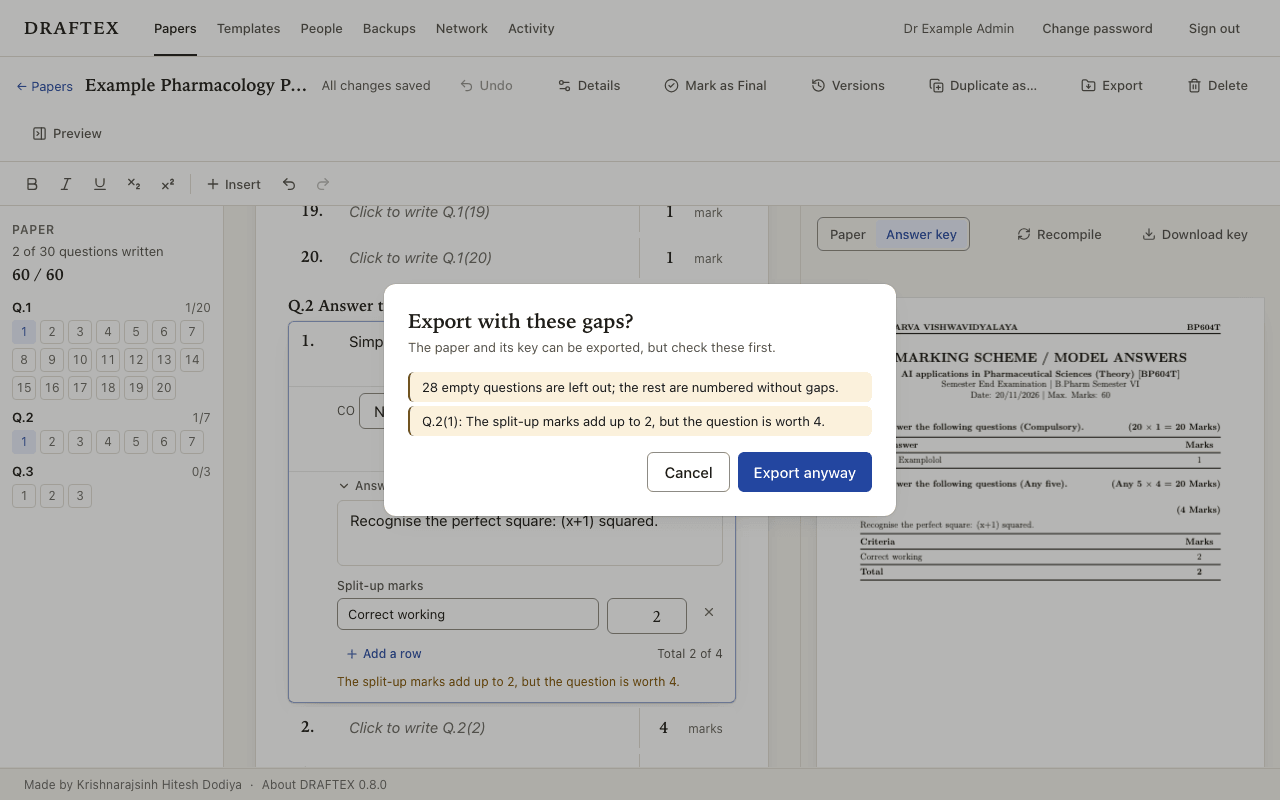
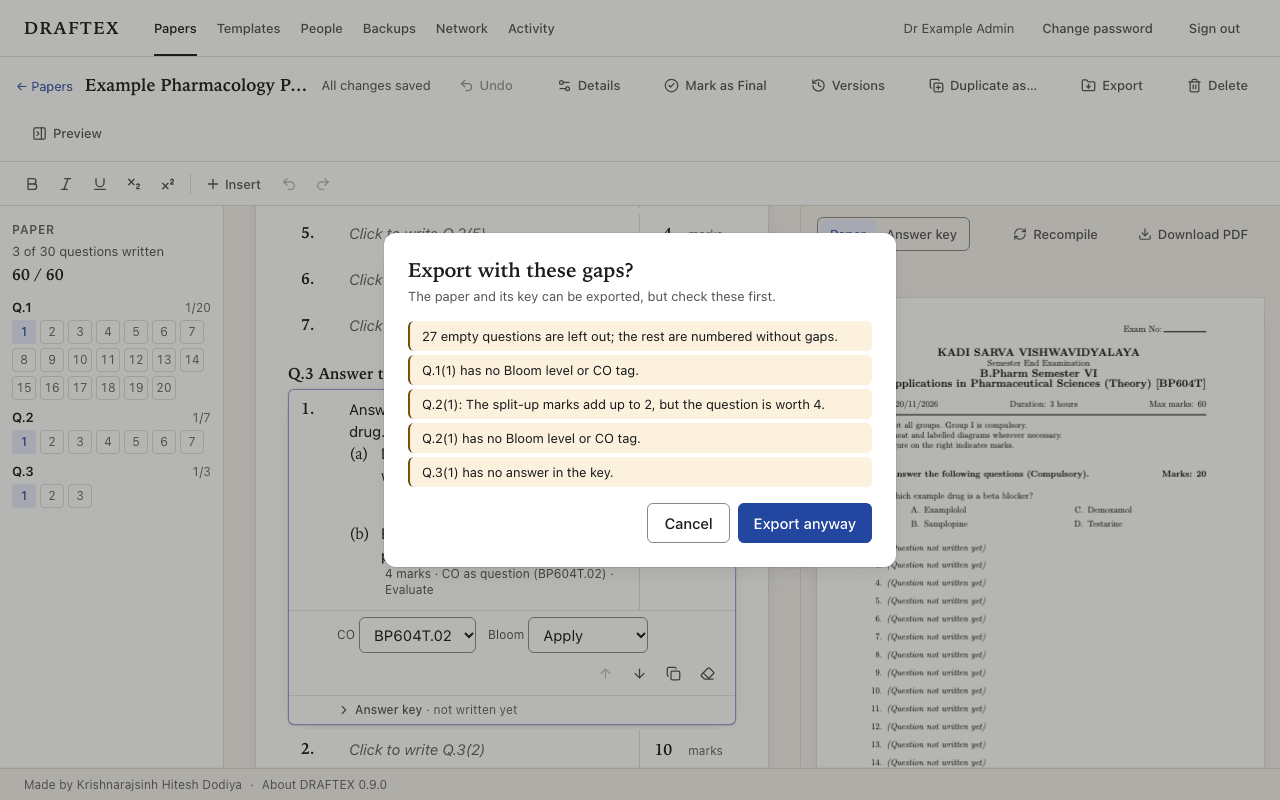
docs: explain Bloom levels, sub-part tags and elective CO tags
User guide sections 4 and 6 and a new screenshot (13-bloom). The other screenshots were taken again from invented data.

diff --git a/scripts/guide-screenshots.ts b/scripts/guide-screenshots.ts
@@ -128,6 +128,46 @@ await page.getByRole("button", { name: "Answer key", exact: true, pressed: false
 await page.getByRole("img", { name: /Answer key of .* page 1 of/ }).waitFor({ timeout: 90_000 });
 await q.scrollIntoViewIfNeeded();
 await shot(page, "06-answer-key");
+await page.getByRole("button", { name: "Paper", exact: true, pressed: false }).click();
+
+// Phase 10: sub-parts with their own marks and tags, Bloom printed, the summary.
+await write("Q.3(1)", "Answer the following about an example drug. /sub");
+await page.getByRole("option", { name: "Sub-parts (a)(b)(c)" }).click();
+await page.keyboard.type("Describe how the example drug works.");
+await page.keyboard.press("ArrowDown");
+await page.keyboard.type("Evaluate its use in an example patient.");
+const long = page.getByRole("listitem", { name: "Q.3(1)", exact: true });
+await long.getByLabel("CO tag for Q.3(1)", { exact: true }).selectOption("BP604T.02");
+await long.getByLabel("Bloom level for Q.3(1)", { exact: true }).selectOption({ label: "Apply" });
+for (const [part, marks, level] of [
+  ["a", "6", "Understand"],
+  ["b", "4", "Evaluate"],
+] as const) {
+  await page
+    .getByRole("button", {
+      name: new RegExp(`^Marks, CO and Bloom for Q\\.3\\(1\\) \\(${part}\\)`),
+    })
+    .click();
+  const pop = page.getByRole("dialog", { name: `Marks, CO and Bloom for Q.3(1) (${part})` });
+  await pop.getByLabel(`Marks for Q.3(1) (${part})`).fill(marks);
+  await pop.getByLabel(`Bloom level for Q.3(1) (${part})`).selectOption({ label: level });
+  await pop.getByRole("button", { name: "Done" }).click();
+}
+await page
+  .getByRole("status")
+  .filter({ hasText: "All changes saved" })
+  .waitFor({ timeout: 15_000 });
+await page.getByRole("button", { name: "Details" }).click();
+const details = page.getByRole("dialog", { name: "Paper details" });
+await details.getByRole("checkbox", { name: /Print Bloom levels/ }).check();
+await details.getByRole("button", { name: "Save details" }).click();
+await details.waitFor({ state: "hidden" });
+await page.getByText("Bloom and CO summary").click();
+await page.getByRole("button", { name: "Edit Q.3(1)" }).click();
+await page.waitForTimeout(4_000);
+await page.getByRole("img", { name: /page 1 of/ }).waitFor({ timeout: 90_000 });
+await long.scrollIntoViewIfNeeded();
+await shot(page, "13-bloom");
 
 await page.getByRole("button", { name: "Export" }).click();
 const ask = page.getByRole("dialog", { name: "Export with these gaps?" });

diff --git a/docs/USER_GUIDE.md b/docs/USER_GUIDE.md
@@ -153,7 +153,12 @@ While you write a question:
 - Pictures: PNG, JPG, PDF (one page) or SVG, up to 10 MB. Structures
   exported from CorelDRAW as PNG or PDF work well.
 - **CO** and **Bloom** under each question set its course outcome tag and
-  level. The CO tag prints at the right, like `[BP604T.01]`.
+  level. The CO tag prints at the right, like `[BP604T.01]`. Elective
+  courses write the option after the number: `[BP607T.01 AEC1]`.
+- **Sub-parts (a)(b)(c)** (Insert, or `/sub`) each have their own **Marks**,
+  **CO** and **Bloom**. Left at "As question", a sub-part follows the
+  question. DRAFTEX warns when the sub-part marks do not add up to the
+  question's marks; the question's marks still count for the total.
 - The small buttons move a question up or down, duplicate it or clear it.
   **Undo** at the top brings back a cleared or moved question.
 
@@ -161,7 +166,24 @@ While you write a question:
 finds a problem (for example a question that cannot be printed), the question
 is marked and the message says what to change.
 
-**Details** changes the title, course, exam date and academic year.
+**Details** changes the title, course, exam date and academic year, and
+has **Print Bloom levels**:
+
+- When it is ticked, each question prints its level right after its text,
+  like "(Bloom: Remember)", with the CO tag at the right as before. A sub-part
+  with its own level or CO prints them on its own line; otherwise the
+  question's line carries them.
+- The answer key then shows the level too: a **Level** column for
+  multiple-choice answers, and the level and CO after each question number.
+- The switch belongs to this paper. A new paper starts with its template's
+  setting (**Print the Bloom level after each question** in the template
+  builder's Page section); copies such as ATKT papers keep it.
+
+![Sub-parts with their own marks and Bloom levels, the summary, and the preview](user-guide/13-bloom.png)
+
+**Bloom and CO summary**, above the questions, counts the questions and
+marks for each Bloom level and each CO. It counts every written question,
+optional ones too, so the marks can add up to more than the paper's total.
 
 ### Final and Printed papers
 
@@ -221,6 +243,9 @@ When the paper is ready, click **Export**.
 If some questions are still empty or have no answer, DRAFTEX tells you first:
 
 ![Export with these gaps? dialog](user-guide/07-export.png)
+
+While **Print Bloom levels** is ticked, it also lists questions without a
+Bloom level or CO tag; these do not stop the export.
 
 Empty questions are left out and the rest are numbered without gaps. Click
 **Export anyway**, or **Cancel** to finish them first. A paper with errors

diff --git a/README.md b/README.md
@@ -3,7 +3,8 @@
 A local-first question-paper builder for pharmacy faculty. Papers are written
 in a structured editor, checked against the PCI 2026 B.Pharm rules, and
 compiled to PDF (paper and answer key) through LaTeX in the KSV/KBIPER house
-style. Everything runs on one computer; other computers on the same network
+style. Questions and their sub-parts carry CO tags and Bloom levels, which a
+paper can print and summarise. Everything runs on one computer; other computers on the same network
 can be let in (LAN mode).
 
 - Product and build contract: [docs/SPEC.md](docs/SPEC.md)
@@ -25,6 +26,7 @@ Exact versions are pinned in `package.json` and listed in `memory.md`.
 | `src/lib/data`                            | The only data-access layer (ownership enforced here; ESLint blocks the database client elsewhere) |
 | `src/lib/latex`                           | Sanitiser, serialiser, Tectonic manager and compile service                                       |
 | `src/lib/rules`, `src/lib/catalogue`      | PCI rules checker and the B.Pharm course catalogue                                                |
+| `src/lib/paper`                           | Paper data shapes: schema, numbering, Bloom labels, CO tag format, answer-key and tag helpers     |
 | `src/lib/backup`, `src/lib/install`       | Backups/restore; install helpers (cloud-sync check, move data folder)                             |
 | `server.ts`, `scripts/start.ts`           | The HTTP server with its request guard, and the supervisor `npm start` runs                       |
 | `scripts/`                                | Node scripts (TypeScript run by Node's type stripping, no build step)                             |
